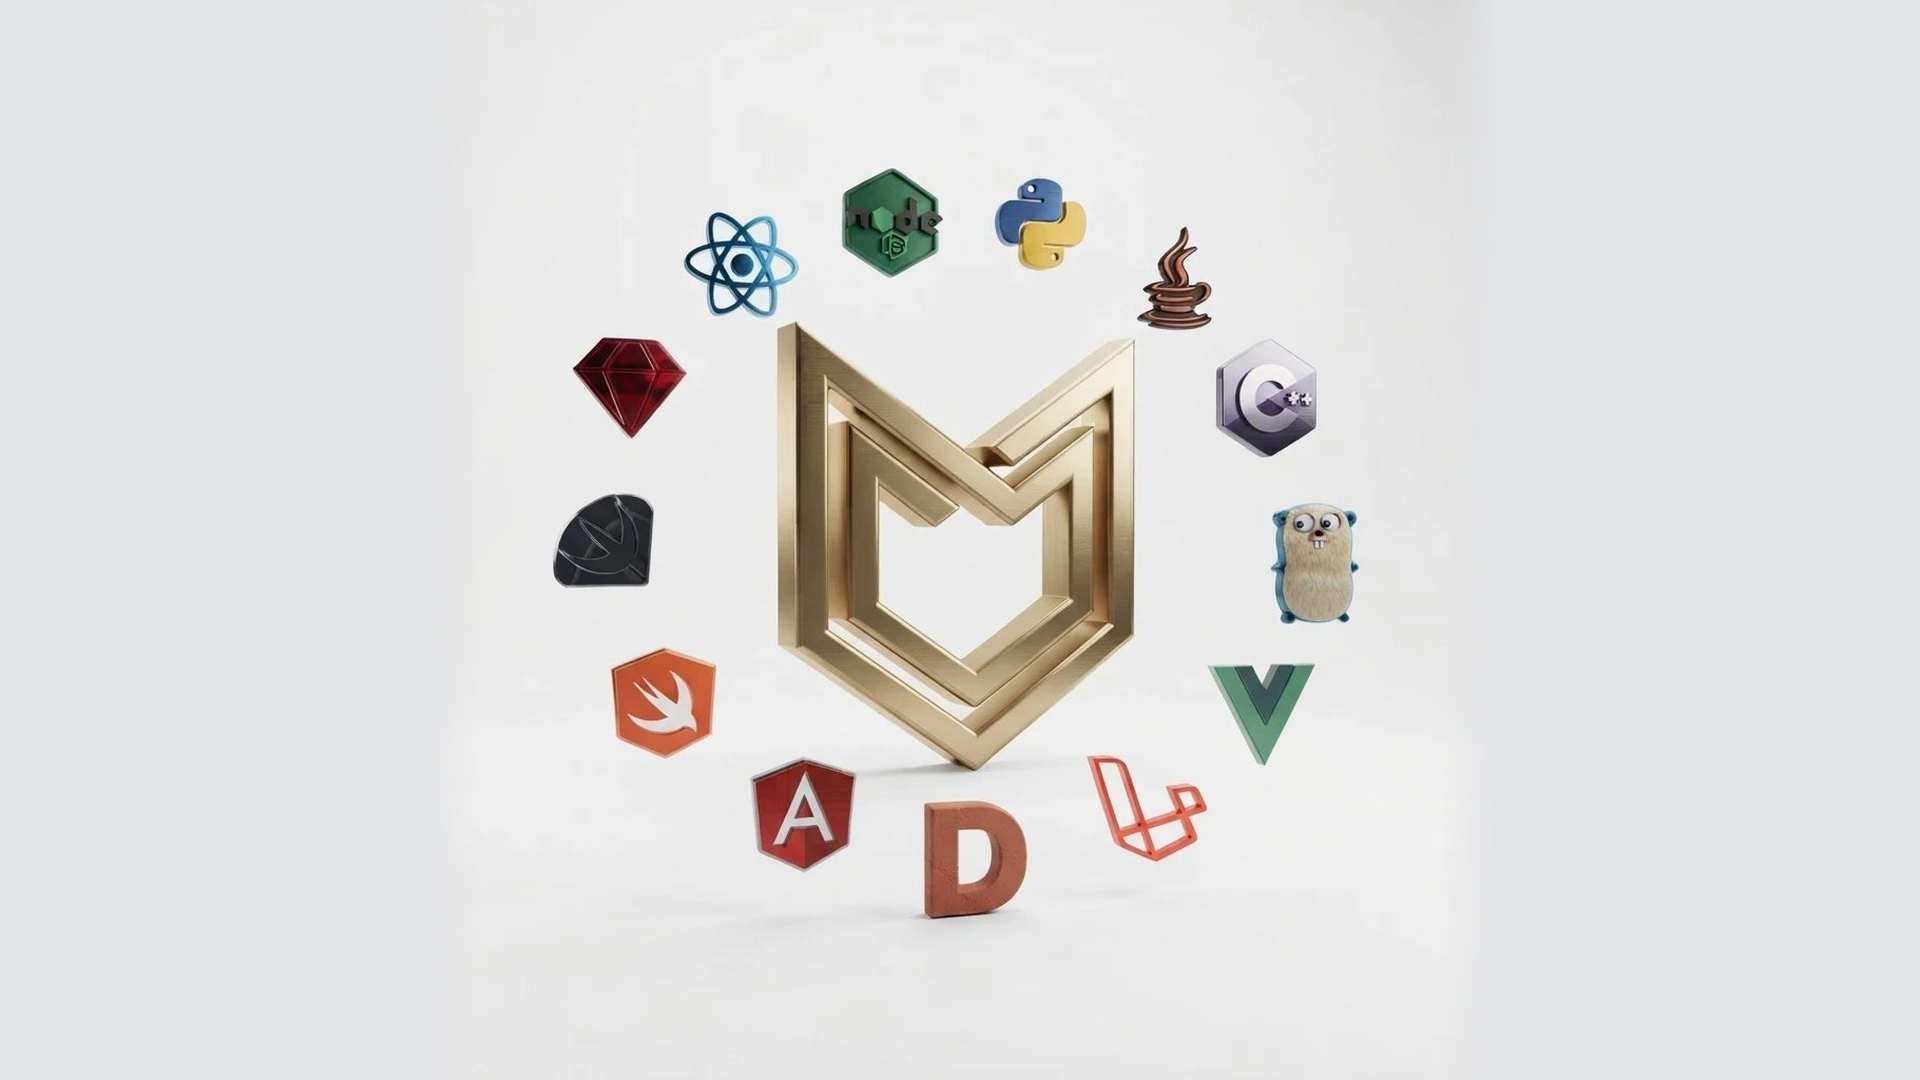
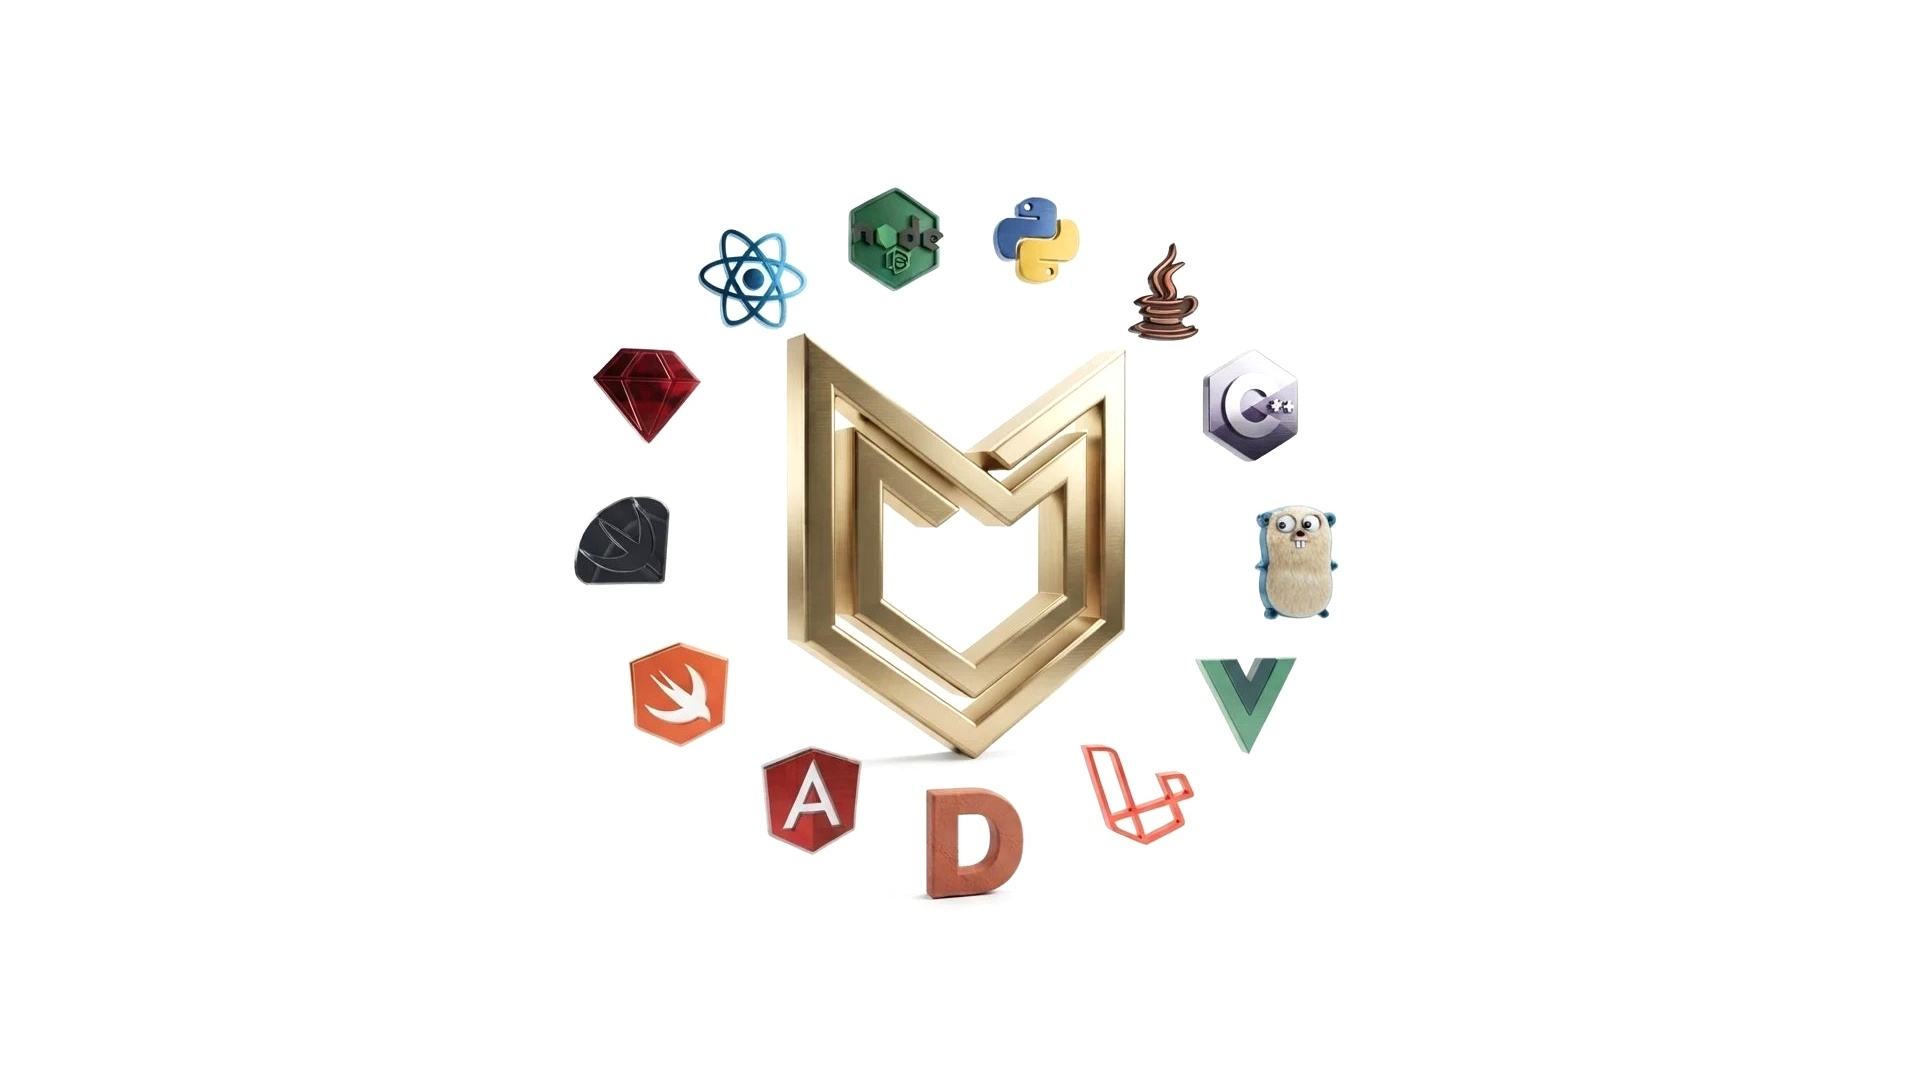
fix(hero): make 3D hero background pure white and seamless with website

diff --git a/resources/views/public/home.blade.php b/resources/views/public/home.blade.php
@@ -64,10 +64,13 @@
 
             <div class="lg:col-span-6 flex items-center justify-center">
                 <div class="relative w-full max-w-[540px]">
-                    <img src="{{ asset('images/hero/hero_tech_stack_3d_square.jpg') }}" 
-                         alt="{{ $t('استوديو موسوفت للبرمجيات', 'Musoftware Engineering Studio') }}" 
-                         class="w-full h-auto object-contain mx-auto" 
-                         fetchpriority="high">
+                    <picture>
+                        <source srcset="{{ asset('images/hero/hero_tech_stack_3d_square.png') }}" type="image/png">
+                        <img src="{{ asset('images/hero/hero_tech_stack_3d_square.jpg') }}" 
+                             alt="{{ $t('استوديو موسوفت للبرمجيات', 'Musoftware Engineering Studio') }}" 
+                             class="w-full h-auto object-contain mx-auto mix-blend-multiply" 
+                             fetchpriority="high">
+                    </picture>
                 </div>
             </div>
         </div>
